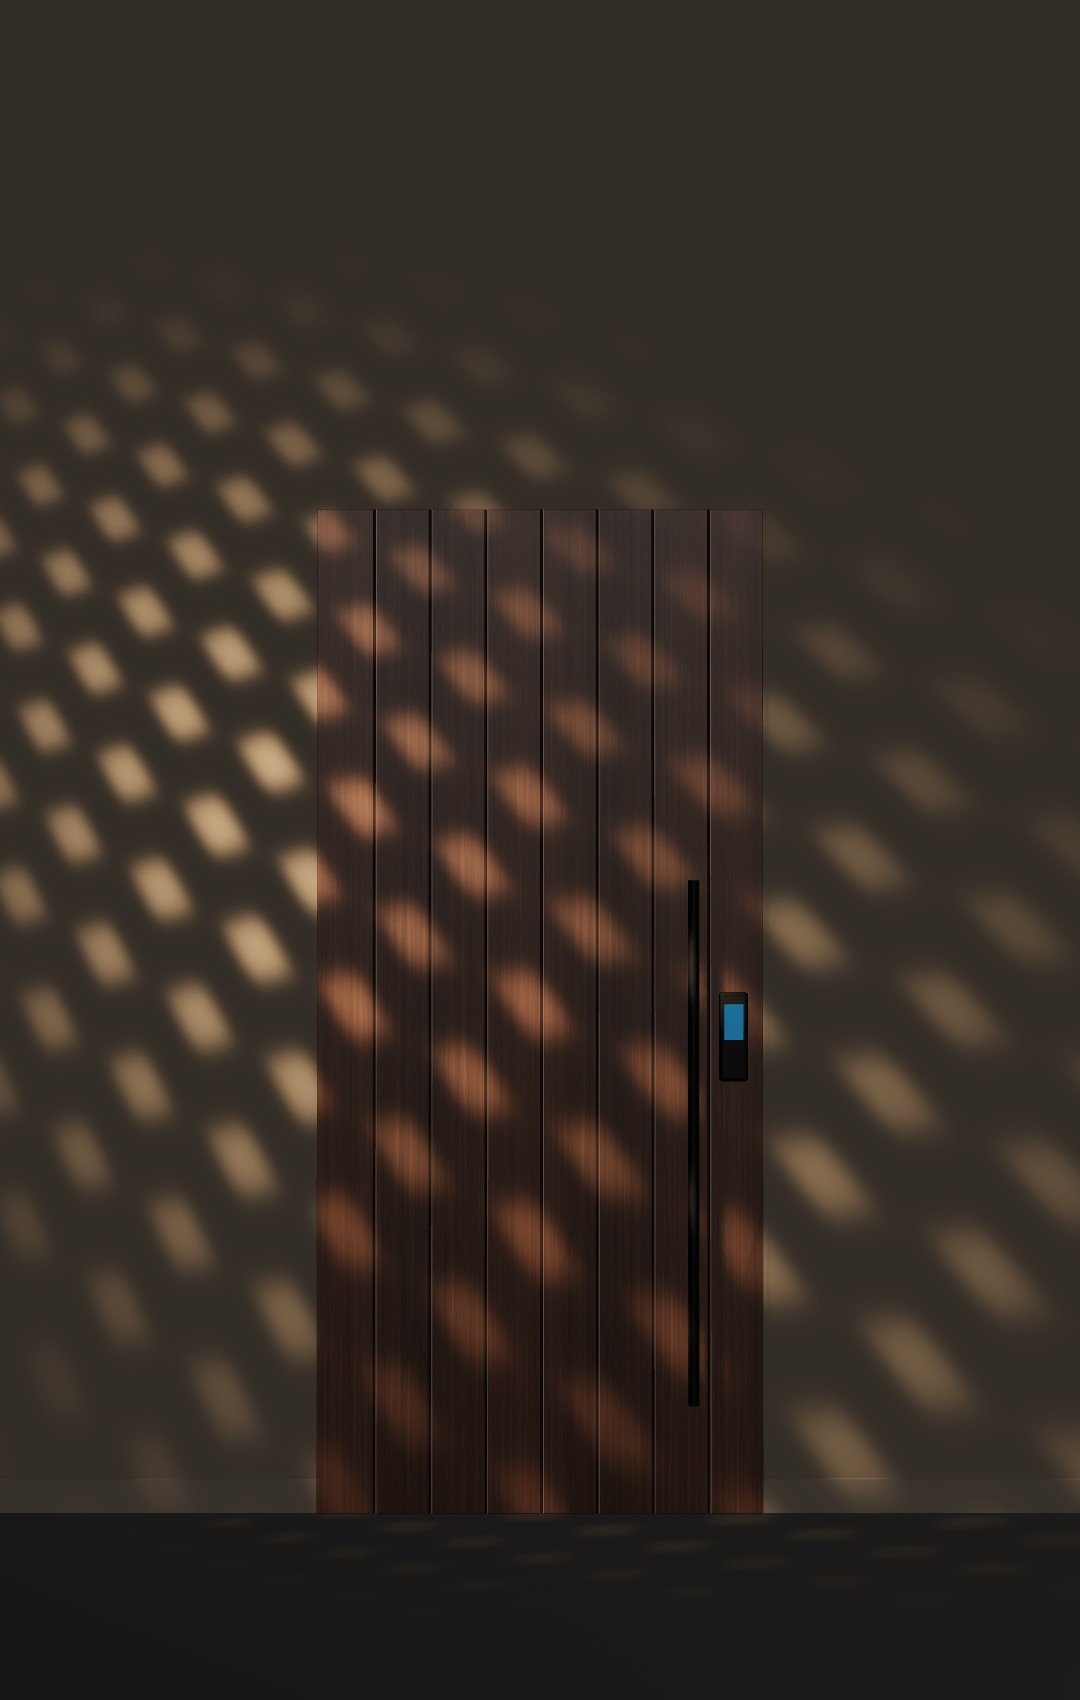
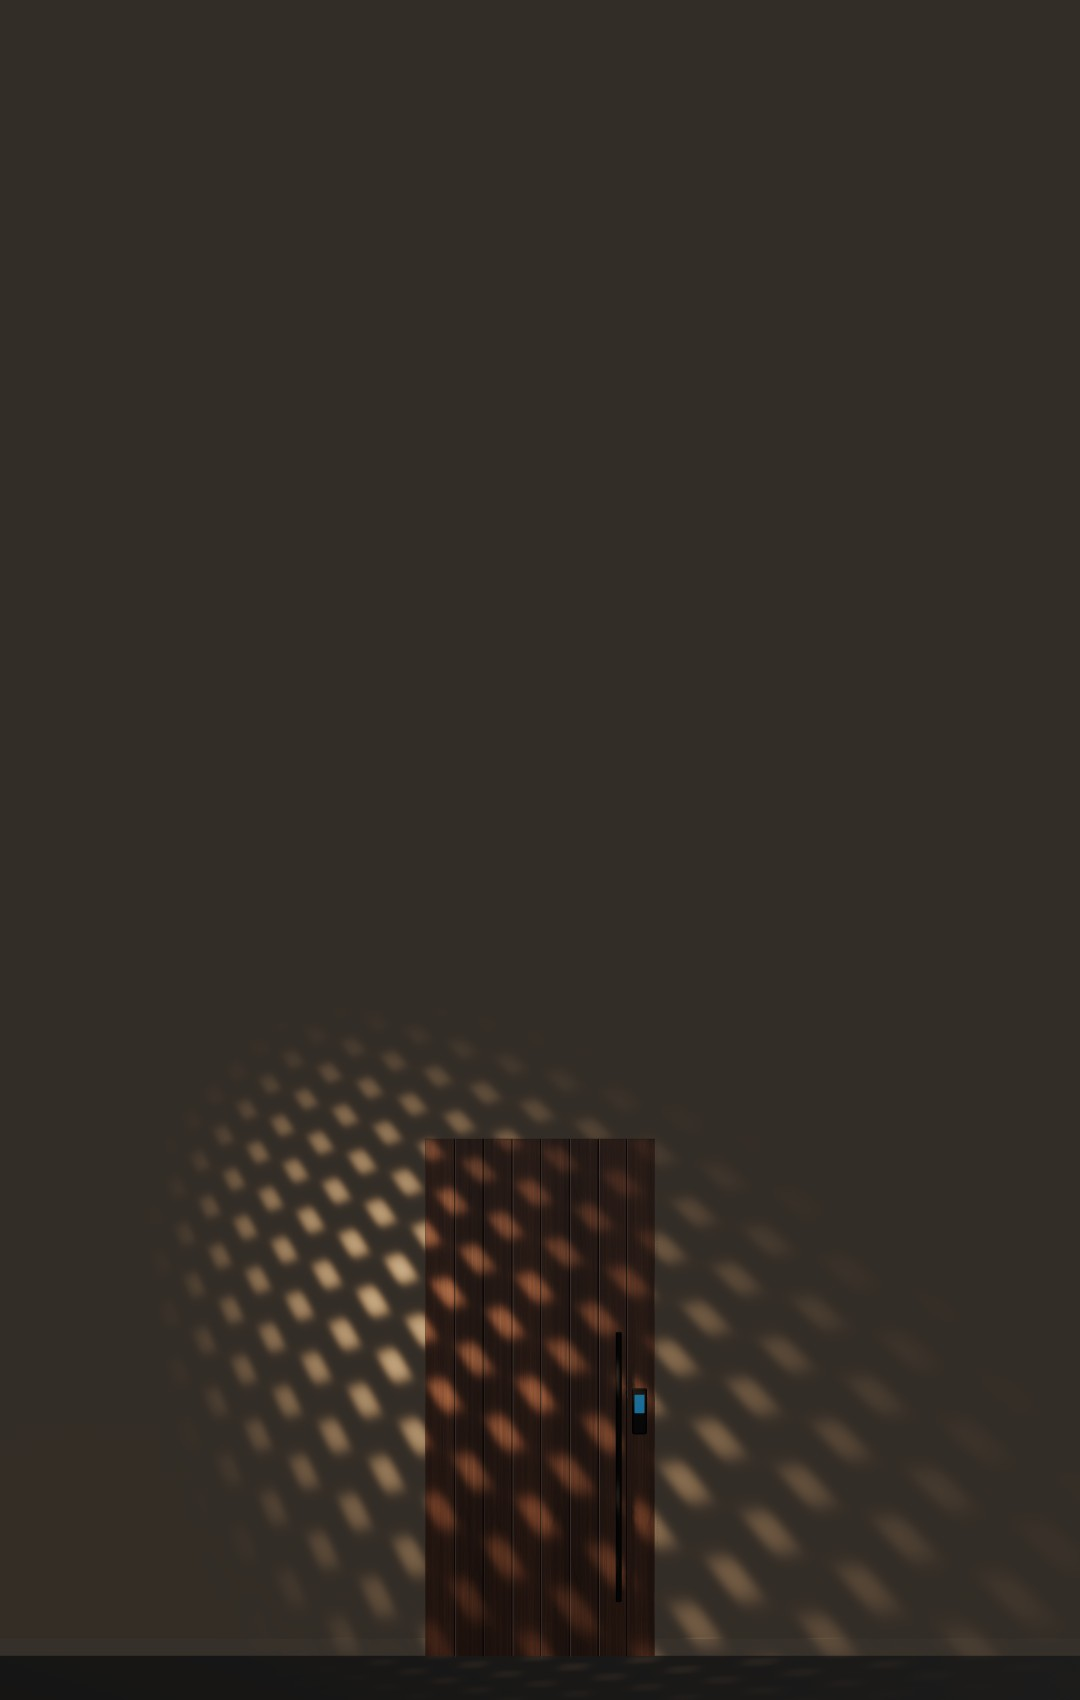
Polish 3D framing, wide product renders and mobile layout
- Hero door sits below the headline on desktop and phones
- Seamless, taller virtual wall; landscape product renders for product pages
- Tighter mobile price bar

Claude-Session: https://claude.ai/code/session_01JTJQXxnNkP5DRixxpfyE98

diff --git a/src/render3d/stage.ts b/src/render3d/stage.ts
@@ -206,7 +206,7 @@ export function createStage(canvas: HTMLCanvasElement, opts: StageOptions): Door
     const wallT = 0.15;
     const span = 14;
     const x0 = -F;
-    const wallH = 6;
+    const wallH = 14;
     // One continuous wall with a cut-out, so there are no seams around the opening.
     const shape = new THREE.Shape();
     shape.moveTo(x0 - span, 0).lineTo(x0, 0).lineTo(x0, oh).lineTo(x0 + ow, oh).lineTo(x0 + ow, 0).lineTo(x0 + ow + span, 0).lineTo(x0 + ow + span, wallH).lineTo(x0 - span, wallH).lineTo(x0 - span, 0);
@@ -233,12 +233,12 @@ export function createStage(canvas: HTMLCanvasElement, opts: StageOptions): Door
     strip.position.set(W / 2, 0.002, 0.16);
     set.add(strip);
     // the room beyond: floor and a glowing back wall
-    const back = new THREE.Mesh(new THREE.PlaneGeometry(8, 6), beyondMat);
-    back.position.set(W / 2, 3, -3.2);
+    const back = new THREE.Mesh(new THREE.PlaneGeometry(8, 14), beyondMat);
+    back.position.set(W / 2, 7, -3.2);
     set.add(back);
-    const side = new THREE.Mesh(new THREE.PlaneGeometry(3.2, 6), wallMat);
+    const side = new THREE.Mesh(new THREE.PlaneGeometry(3.2, 14), wallMat);
     side.rotation.y = Math.PI / 2;
-    side.position.set(x0 - 0.6, 3, -1.75);
+    side.position.set(x0 - 0.6, 7, -1.75);
     set.add(side);
     beyondLight.position.set(W / 2, H * 0.6, -1.2);
   }
@@ -267,13 +267,13 @@ export function createStage(canvas: HTMLCanvasElement, opts: StageOptions): Door
     const fov = THREE.MathUtils.degToRad(camera.fov);
     const hero = opts.mode === "hero";
     const portrait = aspect < 0.9;
-    const needH = b.top * (hero ? (portrait ? 1.7 : 1.95) : opts.mode === "product" ? 1.42 : 1.26);
-    const needW = b.width * (hero ? (portrait ? 1.9 : 2.6) : 1.7);
+    const needH = b.top * (hero ? (portrait ? 3.3 : 2.5) : opts.mode === "product" ? 1.42 : 1.26);
+    const needW = b.width * (hero ? (portrait ? 1.2 : 2.6) : 1.7);
     const distH = needH / 2 / Math.tan(fov / 2);
     const distW = needW / 2 / Math.tan(fov / 2) / aspect;
     const dist = Math.max(distH, distW);
     // Hero: aim above the door so it sits in the lower half, under the headline.
-    baseTarget.set(c.style === "barn" ? W * 0.5 : W / 2, b.top * (hero ? (portrait ? 0.66 : 0.72) : opts.mode === "product" ? 0.52 : 0.49), 0);
+    baseTarget.set(c.style === "barn" ? W * 0.5 : W / 2, b.top * (hero ? (portrait ? 1.56 : 1.08) : opts.mode === "product" ? 0.52 : 0.49), 0);
     basePos.set(baseTarget.x + (hero ? 0 : dist * 0.18), baseTarget.y + (hero ? -0.1 : 0.05), dist);
     camera.position.copy(basePos);
     camera.lookAt(baseTarget);

diff --git a/src/app/(site)/doors/[slug]/page.tsx b/src/app/(site)/doors/[slug]/page.tsx
@@ -7,7 +7,7 @@ import { defaultConfig } from "@/domain/config";
 import { CATEGORY_LABELS, priceDoor, startingPrice, type LineCategory } from "@/domain/pricing";
 import { specRows } from "@/domain/summary";
 import { inr } from "@/domain/format";
-import { PRODUCT_RENDERS } from "@/content/assets";
+import { PRODUCT_RENDERS, PRODUCT_WIDE_RENDERS } from "@/content/assets";
 import { LinkButton, ChevronLink } from "@/components/ui/button";
 import { ProductCard } from "@/components/catalog/product-card";
 import { ProductViewer } from "@/components/catalog/product-viewer";
@@ -38,6 +38,7 @@ export default async function DoorPage({ params }: { params: Promise<{ slug: str
   const cfg = defaultConfig(s.id);
   const est = priceDoor(cfg);
   const img = PRODUCT_RENDERS[s.id];
+  const wide = PRODUCT_WIDE_RENDERS[s.id];
   const rooms = s.rooms.map((r) => ROOMS.find((x) => x.id === r)!.label);
   const cols = s.collections.map((c) => COLLECTIONS.find((x) => x.id === c)!);
   const grouped = (Object.keys(CATEGORY_LABELS) as LineCategory[])
@@ -96,7 +97,8 @@ export default async function DoorPage({ params }: { params: Promise<{ slug: str
         </div>
         <div className="mx-auto mt-12 max-w-[1240px] px-4 sm:px-6">
           <div className="tile relative aspect-[4/5] sm:aspect-[16/10]">
-            <Image src={img.src} alt={img.alt} fill preload sizes="(min-width: 1240px) 1240px, 100vw" className="object-cover object-[50%_35%]" />
+            <Image src={img.src} alt={img.alt} fill preload sizes="(max-width: 639px) 100vw, 1px" className="object-cover sm:hidden" />
+            <Image src={wide.src} alt={wide.alt} fill preload sizes="(min-width: 1240px) 1240px, (min-width: 640px) 100vw, 1px" className="object-cover max-sm:hidden" />
           </div>
         </div>
       </section>
@@ -118,7 +120,7 @@ export default async function DoorPage({ params }: { params: Promise<{ slug: str
           <p className="mx-auto mt-3 max-w-[44ch] text-lede text-white/70">Drag to look at the {s.name} from any angle, then open it.</p>
         </div>
         <div className="mx-auto mt-10 max-w-[1240px] px-4 sm:px-6">
-          <ProductViewer styleId={s.id} poster={img.src} />
+          <ProductViewer styleId={s.id} poster={wide.src} />
         </div>
       </section>
 

diff --git a/src/content/assets.ts b/src/content/assets.ts
@@ -50,6 +50,13 @@ export const PRODUCT_RENDERS: Record<StyleId, ImageAsset> = Object.fromEntries(
   ]),
 ) as Record<StyleId, ImageAsset>;
 
+export const PRODUCT_WIDE_RENDERS: Record<StyleId, ImageAsset> = Object.fromEntries(
+  (["flush", "shaker", "panel4", "grooved", "glass", "louvre", "main", "pivot", "barn"] as StyleId[]).map((id) => [
+    id,
+    rd(`product-wide-${id}`, 1920, 1200, `${getStyle(id).name} door in its standard specification, rendered in a plaster wall.`, "Landscape product photograph, installed, three-quarter view."),
+  ]),
+) as Record<StyleId, ImageAsset>;
+
 export const MACRO_RENDERS = {
   hardware: rd("macro-hardware", 1600, 1200, "Close-up of an antique brass lever and mortise lock on walnut veneer.", "Macro photograph of a lever on a finished door."),
   panel: rd("macro-panel", 1600, 1200, "Close-up of a raised panel's bevelled edge in teak veneer.", "Macro photograph of a raised panel edge."),
@@ -68,6 +75,7 @@ export function allAssets(): ImageAsset[] {
     HERO_RENDER_PORTRAIT,
     HERO_OPEN_RENDER,
     ...Object.values(PRODUCT_RENDERS),
+    ...Object.values(PRODUCT_WIDE_RENDERS),
     ...Object.values(MACRO_RENDERS),
     ...SAMPLE_ROOMS.map((s) => s.image),
   ];

diff --git a/src/components/home/hero-scene.tsx b/src/components/home/hero-scene.tsx
@@ -86,7 +86,7 @@ export function HeroScene() {
         <div aria-hidden="true" className="pointer-events-none absolute inset-x-0 top-0 h-56 bg-gradient-to-b from-night/70 to-transparent" />
         <div aria-hidden="true" className="pointer-events-none absolute inset-x-0 bottom-0 h-64 bg-gradient-to-t from-night/80 to-transparent" />
 
-        <div className="relative z-10 mx-auto flex h-full max-w-[1100px] flex-col items-center px-6 pt-[11svh] text-center" style={{ opacity: headline, transform: `translateY(${-(1 - headline) * 40}px)` }}>
+        <div className="relative z-10 mx-auto flex h-full max-w-[1100px] flex-col items-center px-6 pt-[9svh] text-center" style={{ opacity: headline, transform: `translateY(${-(1 - headline) * 40}px)` }}>
           <p className="eyebrow-accent !text-brass-light">Threshold</p>
           <h1 id="hero-title" className="font-display mt-2 max-w-[16ch] text-[clamp(2.6rem,5.6vw,5rem)] leading-[1.04]">
             An entrance worth coming home to.

diff --git a/scripts/renders/generate.ts b/scripts/renders/generate.ts
@@ -29,6 +29,7 @@ const shots: Shot[] = [
   { name: "hero-closed-portrait", size: [1080, 1700], cfg: { style: "pivot" }, mode: "hero" },
   { name: "hero-open", size: [2400, 1350], cfg: { style: "pivot" }, mode: "hero", open: 0.62 },
   ...STYLES.map((s) => ({ name: `product-${s.id}`, size: [1200, 1500] as [number, number], cfg: { style: s.id }, mode: "product" as const })),
+  ...STYLES.map((s) => ({ name: `product-wide-${s.id}`, size: [1920, 1200] as [number, number], cfg: { style: s.id }, mode: "product" as const })),
   {
     name: "macro-panel",
     size: [1600, 1200],

diff --git a/src/components/configurator/configurator.tsx b/src/components/configurator/configurator.tsx
@@ -414,7 +414,7 @@ export function Configurator() {
             <span className="block whitespace-nowrap text-[0.7rem] text-muted">
               {draft.qty > 1 ? `${draft.qty} doors · before GST` : "Per door · before GST"}
             </span>
-            <span className="font-display text-[1.7rem] leading-none" data-testid="mobile-price">
+            <span className="font-display text-[1.3rem] leading-none" data-testid="mobile-price">
               {inr(est.unit * draft.qty)}
             </span>
           </p>
